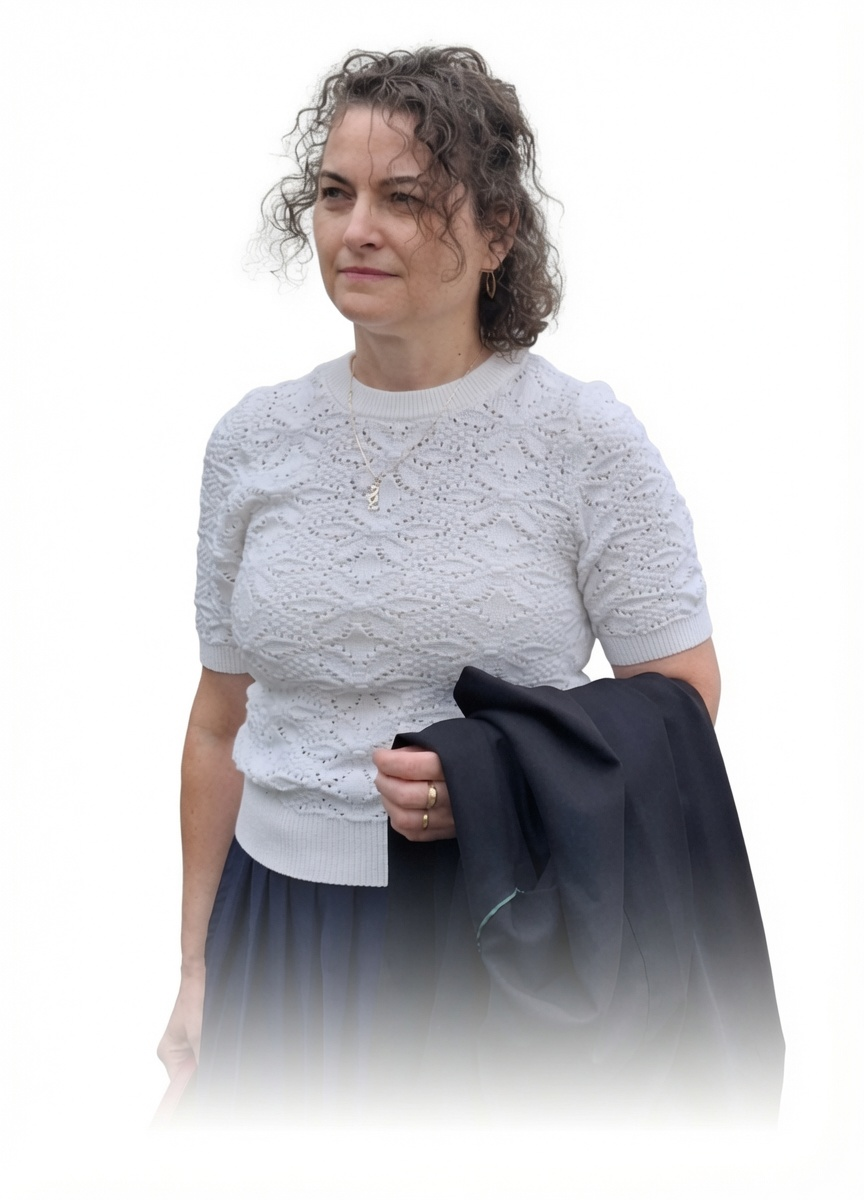
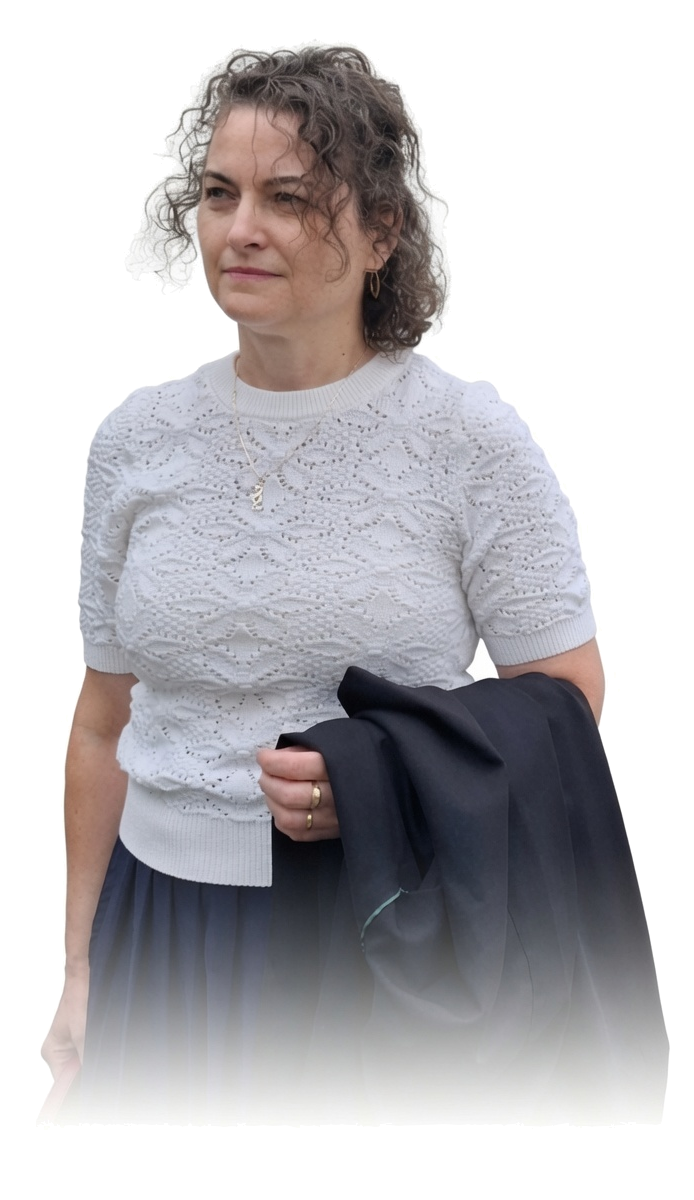
nos?

diff --git a/app/globals.css b/app/globals.css
@@ -454,108 +454,7 @@ h1, h2, h3, h4, h5, h6 {
   transform: translateX(6px);
 }
 
-/* ============================================================
-   AUTHOR FULL - RÓLAM SZEKCIÓ
-   ============================================================ */
-.author-full {
-  display: flex;
-  flex-direction: column;
-  gap: 2.5rem;
-  max-width: 48rem;
-  margin: 0 auto;
-}
 
-.author-full-header {
-  display: flex;
-  align-items: center;
-  gap: 2.5rem;
-}
-
-@media (max-width: 640px) {
-  .author-full-header {
-    flex-direction: column;
-    text-align: center;
-    gap: 1.5rem;
-  }
-}
-
-.author-full-image {
-  flex-shrink: 0;
-  width: 180px;
-  height: 180px;
-  border-radius: 50%;
-  border: 4px solid var(--color-accent);
-  padding: 5px;
-  overflow: hidden;
-  box-shadow: 0 4px 24px rgba(245, 130, 32, 0.15);
-  transition: var(--transition);
-}
-
-.author-full-image:hover {
-  border-color: var(--color-accent-hover);
-  box-shadow: var(--shadow-orange);
-}
-
-.author-image {
-  width: 100%;
-  height: 100%;
-  object-fit: cover;
-  border-radius: 50%;
-}
-
-.author-full-name {
-  font-family: var(--font-serif);
-  font-size: 2.8rem;
-  font-weight: 700;
-  color: var(--color-primary);
-  margin-bottom: 0.15rem;
-  line-height: 1.1;
-}
-
-.author-full-subtitle {
-  font-family: var(--font-serif);
-  font-size: 1.2rem;
-  font-weight: 400;
-  color: var(--color-accent);
-}
-
-.author-full-body {
-  display: flex;
-  flex-direction: column;
-  gap: 1.5rem;
-  max-width: 720px;
-}
-
-.author-full-body p {
-  font-size: 1.1rem;
-  line-height: 1.8;
-  color: var(--color-gray-700);
-  font-weight: 300;
-}
-
-.author-full-body strong {
-  color: var(--color-primary);
-  font-weight: 700;
-}
-
-.author-highlights {
-  display: flex;
-  gap: 1.5rem;
-  flex-wrap: wrap;
-}
-
-.author-highlights span {
-  font-size: 0.95rem;
-  color: var(--color-gray-600);
-  background: var(--color-gray-50);
-  padding: 0.3rem 0.9rem;
-  border-radius: 20px;
-  font-weight: 300;
-}
-
-.author-full-cta {
-  margin-top: 0.75rem;
-}
 
 /* ============================================================
    TESTIMONIALS
@@ -906,21 +805,6 @@ h1, h2, h3, h4, h5, h6 {
     gap: 3rem;
   }
 
-  .author-full-header {
-    flex-direction: column;
-    text-align: center;
-    gap: 1.5rem;
-  }
-
-  .author-full-body {
-    max-width: 100%;
-    text-align: center;
-  }
-
-  .author-full-name {
-    font-size: 2.4rem;
-  }
-
   .section-title {
     font-size: 3rem;
   }
@@ -945,15 +829,6 @@ h1, h2, h3, h4, h5, h6 {
   .service-grid-modern {
     grid-template-columns: 1fr;
     gap: 1.75rem;
-  }
-
-  .author-full-image {
-    width: 150px;
-    height: 150px;
-  }
-
-  .author-full-name {
-    font-size: 1.8rem;
   }
 
   .contact-map-wrapper {
@@ -1487,129 +1362,3 @@ h1, h2, h3, h4, h5, h6 {
   border: 0;
 }
 
-/* ============================================================
-   AUTHOR KÁRTYA - PREMIUM
-   ============================================================ */
-
-.author-full {
-  display: flex;
-  flex-direction: column;
-  gap: 2.5rem;
-  max-width: 48rem;
-  margin: 0 auto;
-}
-
-.author-full-header {
-  display: flex;
-  align-items: center;
-  gap: 2.5rem;
-}
-
-@media (max-width: 640px) {
-  .author-full-header {
-    flex-direction: column;
-    text-align: center;
-    gap: 1.5rem;
-  }
-}
-
-.author-full-image {
-  flex-shrink: 0;
-  width: 180px;
-  height: 180px;
-  border-radius: 50%;
-  padding: 4px;
-  overflow: hidden;
-  
-  /* --- KÖRBESZEGÉLYEZÉS --- */
-  border: 3px solid var(--color-accent);
-  box-shadow: 0 4px 24px rgba(245, 130, 32, 0.15);
-  
-  transition: all 0.4s cubic-bezier(0.4, 0, 0.2, 1);
-}
-
-.author-full-image:hover {
-  border-color: var(--color-accent-hover);
-  box-shadow: 0 8px 40px rgba(245, 130, 32, 0.25);
-  transform: scale(1.02);
-}
-
-.author-image {
-  width: 100%;
-  height: 100%;
-  object-fit: cover;
-  border-radius: 50%;
-  transition: transform 0.6s ease;
-}
-
-.author-full-image:hover .author-image {
-  transform: scale(1.05);
-}
-
-.author-full-name {
-  font-family: var(--font-serif);
-  font-size: 2.8rem;
-  font-weight: 700;
-  color: var(--color-primary);
-  margin-bottom: 0.15rem;
-  line-height: 1.1;
-}
-
-.author-full-subtitle {
-  font-family: var(--font-serif);
-  font-size: 1.2rem;
-  font-weight: 400;
-  color: var(--color-accent);
-}
-
-.author-full-body {
-  display: flex;
-  flex-direction: column;
-  gap: 1.5rem;
-  max-width: 720px;
-}
-
-.author-full-body p {
-  font-size: 1.1rem;
-  line-height: 1.8;
-  color: var(--color-gray-700);
-  font-weight: 300;
-}
-
-.author-full-body strong {
-  color: var(--color-primary);
-  font-weight: 700;
-}
-
-.author-highlights {
-  display: flex;
-  gap: 1.5rem;
-  flex-wrap: wrap;
-}
-
-.author-highlights span {
-  font-size: 0.95rem;
-  color: var(--color-gray-600);
-  background: var(--color-gray-50);
-  padding: 0.3rem 0.9rem;
-  border-radius: 20px;
-  font-weight: 300;
-  
-  /* --- KÖRBESZEGÉLYEZÉS --- */
-  border: 1px solid var(--color-gray-200);
-  box-shadow: 0 2px 4px rgba(16, 40, 74, 0.02);
-  
-  transition: all 0.3s ease;
-}
-
-.author-highlights span:hover {
-  background: var(--color-accent);
-  color: var(--color-white);
-  border-color: var(--color-accent);
-  transform: translateY(-2px);
-  box-shadow: 0 4px 16px rgba(245, 130, 32, 0.2);
-}
-
-.author-full-cta {
-  margin-top: 0.75rem;
-}

diff --git a/app/gauthor.css b/app/gauthor.css
@@ -26,9 +26,10 @@
 .author-image-wrapper {
   flex-shrink: 0;
   width: 460px;
+  min-width: 460px;
   height: auto;
   overflow: visible; /* Nincs vágás */
-  background: transparent; /* Nincs háttér */
+  background: transparent !important; /* Nincs háttér */
   box-shadow: none; /* Nincs árnyék */
   border: none; /* Nincs keret */
   border-radius: 0; /* Nincs lekerekítés */
@@ -39,7 +40,7 @@
 .author-image {
   width: 100%;
   height: 100%;
-  object-fit:inherit; /* A teljes kép látszódjon */
+  object-fit:none; /* A teljes kép látszódjon */
   display: block;
 }
 